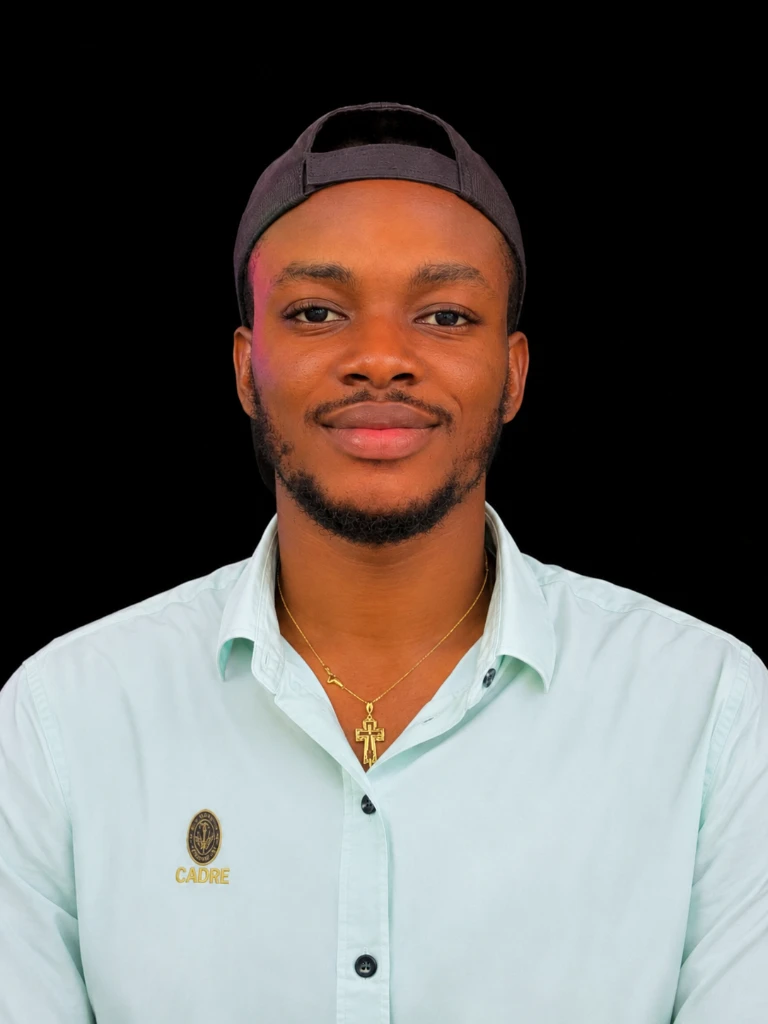
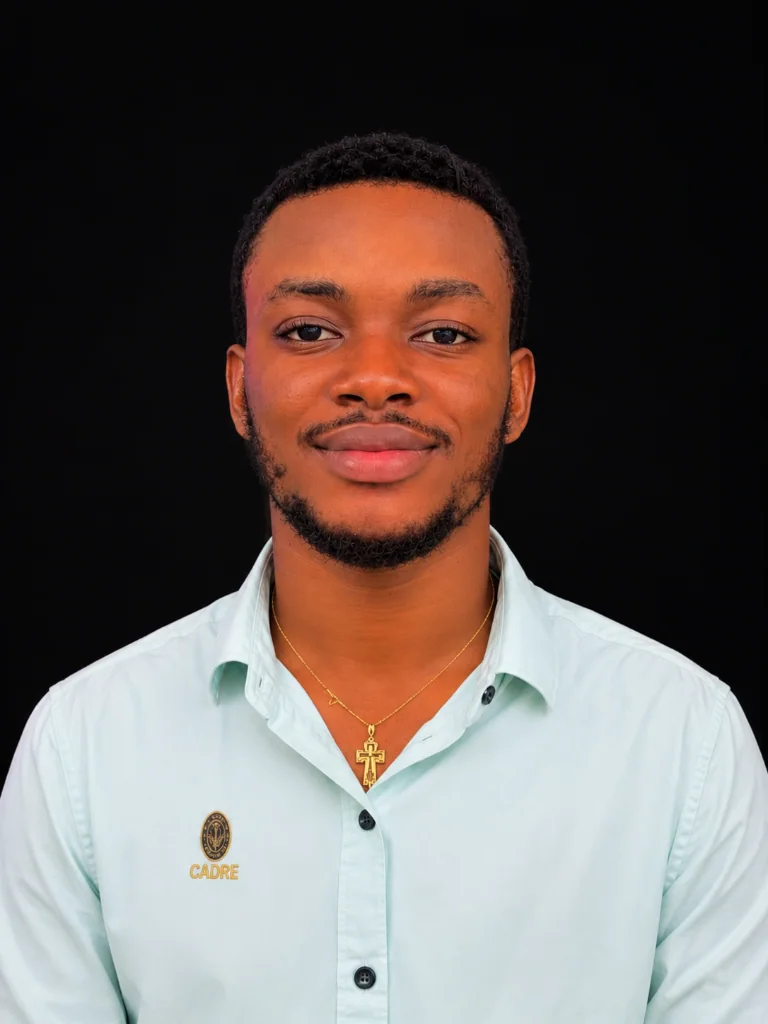
Refine mobile hero and portfolio visuals
Update the About portrait and refine mobile hero and portfolio layouts.

diff --git a/src/components/portfolio/ProjectCarousel.tsx b/src/components/portfolio/ProjectCarousel.tsx
@@ -248,18 +248,18 @@ export function ProjectCarousel({ projects }: { projects: Project[] }) {
                       />
                       <div className="pointer-events-none absolute inset-0 z-10 flex flex-col justify-between p-5 sm:p-7">
                         <div className="flex items-center justify-between gap-3">
-                          <span className="rounded-full border border-white/25 bg-black/20 px-3 py-1 text-[0.65rem] font-semibold uppercase tracking-[0.18em] text-white/85 backdrop-blur-sm">
+                          <span className="rounded-full border border-white/25 bg-black/20 px-3 py-1 text-[0.55rem] font-semibold uppercase tracking-[0.18em] text-white/85 backdrop-blur-sm sm:text-[0.65rem]">
                             {project.category}
                           </span>
-                          <span className="text-xs font-medium text-white/80">
+                          <span className="text-[0.625rem] font-medium text-white/80 sm:text-xs">
                             {project.year}
                           </span>
                         </div>
                         <div>
-                          <p className="text-xs font-semibold uppercase tracking-[0.2em] text-accent">
+                          <p className="text-[0.625rem] font-semibold uppercase tracking-[0.2em] text-accent sm:text-xs">
                             Project preview
                           </p>
-                          <p className="mt-2 max-w-[15ch] font-display text-2xl font-bold leading-tight text-white sm:text-4xl">
+                          <p className="mt-2 max-w-[15ch] font-display text-lg font-bold leading-tight text-white sm:text-4xl">
                             {project.platform ?? project.category}
                           </p>
                         </div>
@@ -284,18 +284,18 @@ export function ProjectCarousel({ projects }: { projects: Project[] }) {
                     }}
                   >
                     <div className="flex items-center justify-between gap-3">
-                      <span className="rounded-full border border-white/25 bg-black/20 px-3 py-1 text-[0.65rem] font-semibold uppercase tracking-[0.18em] text-white/85 backdrop-blur-sm">
+                      <span className="rounded-full border border-white/25 bg-black/20 px-3 py-1 text-[0.55rem] font-semibold uppercase tracking-[0.18em] text-white/85 backdrop-blur-sm sm:text-[0.65rem]">
                         {project.category}
                       </span>
-                      <span className="text-xs font-medium text-white/65">
+                      <span className="text-[0.625rem] font-medium text-white/65 sm:text-xs">
                         {project.year}
                       </span>
                     </div>
                     <div>
-                      <p className="text-xs font-semibold uppercase tracking-[0.2em] text-accent">
+                      <p className="text-[0.625rem] font-semibold uppercase tracking-[0.2em] text-accent sm:text-xs">
                         Project preview
                       </p>
-                      <p className="mt-2 max-w-[15ch] font-display text-2xl font-bold leading-tight text-white sm:text-4xl">
+                      <p className="mt-2 max-w-[15ch] font-display text-lg font-bold leading-tight text-white sm:text-4xl">
                         {project.platform ?? project.category}
                       </p>
                     </div>
@@ -324,7 +324,7 @@ export function ProjectCarousel({ projects }: { projects: Project[] }) {
                 <p className="mt-3 line-clamp-3 text-sm leading-relaxed text-body sm:text-base">
                   {project.summary}
                 </p>
-                <span className="mt-auto pt-4 text-xs font-semibold uppercase tracking-wider text-muted">
+                <span className="mt-4 pt-0 text-xs font-semibold uppercase tracking-wider text-muted sm:mt-auto sm:pt-4">
                   {isActive ? "Open project details" : "Select project"}
                 </span>
               </div>

diff --git a/src/components/sections/Hero.tsx b/src/components/sections/Hero.tsx
@@ -29,15 +29,15 @@ export function Hero() {
 
   // min-h (not a fixed h): on short viewports the section grows instead of
   // centring-overflow pushing the top under the fixed navbar. The grid's
-  // padding-top (7rem) clears the navbar's 87px bottom edge with room to spare.
+  // Mobile padding clears the fixed navbar; larger screens keep their wider layout spacing.
   return (
     <section className="navy-panel relative flex min-h-[100svh] items-center overflow-hidden py-8 lg:py-0">
       <div className="relative z-10 mx-auto grid w-full max-w-6xl items-center gap-6 px-4 pt-28 pb-8 sm:px-6 sm:pt-32 lg:grid-cols-[1.05fr_1fr] lg:gap-10 lg:pt-24 lg:pb-10">
         {/* ---------------- copy ---------------- */}
-        <div className="min-w-0">
+        <div className="flex min-w-0 min-h-[min(36rem,calc(100svh-10rem))] flex-col items-center justify-between text-center sm:min-h-0 sm:block sm:text-left">
           <motion.h1
             {...rise(0)}
-            className="max-w-[22ch] text-white text-balance text-[clamp(2.25rem,3.8vw,3.25rem)] font-bold leading-[1.04] tracking-[-0.03em]"
+            className="hero-mobile-inset mx-auto max-w-[22ch] text-white text-balance text-[clamp(1.875rem,9.2vw,2.25rem)] font-bold leading-[1] tracking-[-0.03em] sm:mx-0 sm:text-[clamp(2.25rem,3.8vw,3.25rem)] sm:leading-[1.04]"
           >
             I design and redesign websites that{" "}
             <span className="text-accent">make your business stand out</span>.
@@ -45,25 +45,25 @@ export function Hero() {
 
           <motion.p
             {...rise(0.08)}
-            className="mt-3 max-w-lg text-[clamp(1rem,1.4vw,1.125rem)] leading-relaxed text-on-navy/80"
+            className="hero-mobile-inset mx-auto mt-5 max-w-lg text-[clamp(0.9375rem,4vw,1rem)] leading-relaxed text-on-navy/80 sm:mx-0 sm:mt-3 sm:text-[clamp(1rem,1.4vw,1.125rem)]"
           >
             I create modern, visually appealing and easy to use websites that
             showcase your brand, connect with your audience, and help your
             business grow.
           </motion.p>
 
-          <motion.div {...rise(0.16)} className="mt-4 flex flex-wrap gap-3">
-            <Button href="/portfolio">
+          <motion.div {...rise(0.16)} className="mt-5 flex flex-wrap justify-center gap-1 sm:mt-4 sm:justify-start sm:gap-3">
+            <Button href="/portfolio" className="hero-mobile-cta">
               See my work
             </Button>
-            <Button href="/#contact" variant="onNavy">
+            <Button href="/#contact" variant="onNavy" className="hero-mobile-cta">
               Start a project
             </Button>
           </motion.div>
 
           <motion.div
             {...rise(0.24)}
-            className="mt-5 flex flex-wrap items-center gap-x-8 gap-y-3 border-t border-line-navy pt-4"
+            className="mt-0 flex flex-wrap items-center justify-center gap-x-1.5 gap-y-3 border-t border-line-navy pt-4 text-center sm:mt-5 sm:justify-start sm:gap-x-8 sm:text-left"
           >
             {[
               {
@@ -82,7 +82,7 @@ export function Hero() {
                 <p className="font-display text-xl font-bold text-white">
                   <Counter to={value} suffix={suffix} />
                 </p>
-                <p className="mt-0.5 text-sm text-on-navy/60">{label}</p>
+                <p className="mt-0.5 text-[13px] text-on-navy/60 sm:text-sm">{label}</p>
               </div>
             ))}
           </motion.div>

diff --git a/src/app/globals.css b/src/app/globals.css
@@ -585,9 +585,38 @@
 
 /* Keep neighboring project previews visible beside the active card on phones. */
 @media (max-width: 639px) {
+  .hero-mobile-cta {
+    gap: 0.375rem;
+    padding: 0.5rem 0.625rem;
+    font-size: 0.875rem;
+  }
+
+  .hero-mobile-inset {
+    padding-inline: 50px;
+  }
+
+  .project-carousel-stage {
+    height: 25rem !important;
+  }
+
+  .project-carousel-position {
+    height: auto !important;
+  }
+
   .project-carousel-position[data-active="true"] {
     width: min(64vw, 35.625rem) !important;
-    height: 32rem !important;
+  }
+}
+
+@media (max-width: 389px) {
+  .hero-mobile-inset {
+    padding-inline: 46px;
+  }
+}
+
+@media (max-width: 359px), (max-width: 639px) and (max-height: 600px) {
+  .hero-mobile-inset {
+    padding-inline: 0;
   }
 }
 
